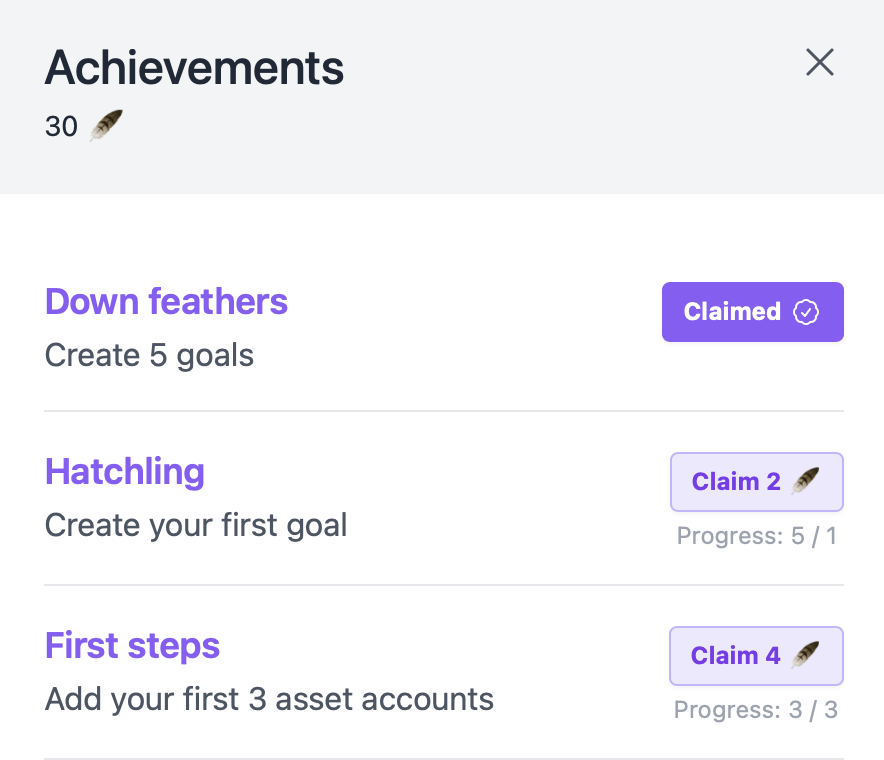
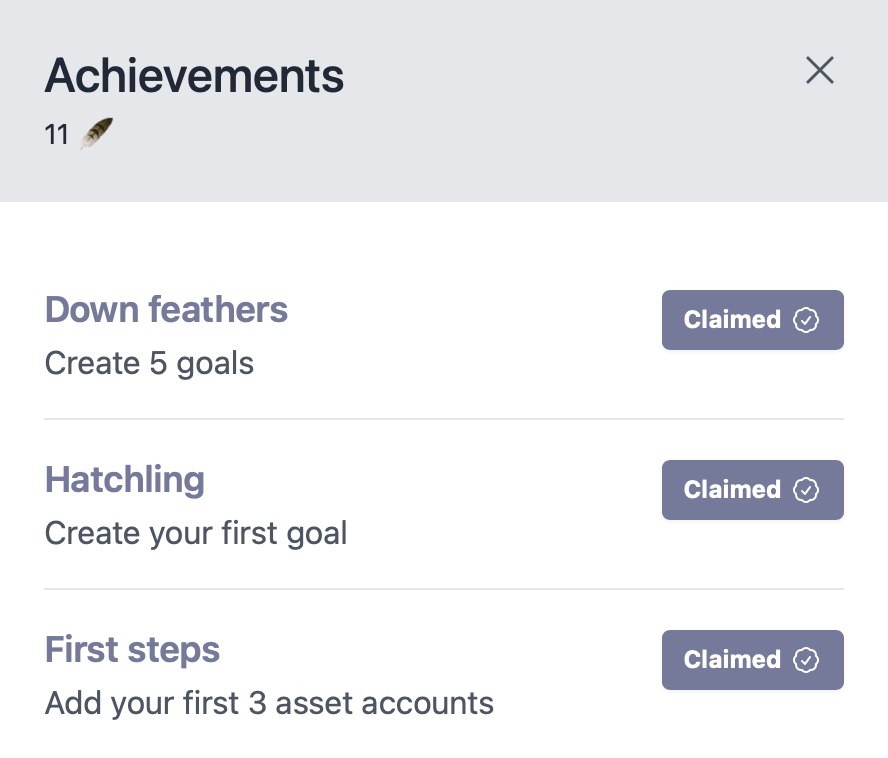
color update

diff --git a/styles/globals.css b/styles/globals.css
@@ -8,20 +8,24 @@
         --color-light: #4b5563;  
         --color-muted: #9ca3af; 
         --color-inverted: #ffffff;
-        --color-assets: #22c55e; 
-        --color-assets-muted: #86efac; 
-        --color-assets-light: #dcfce7;
-        --color-liabilities: #0ea5e9;
-        --color-liabliites-muted: #7dd3fc; 
-        --color-liabilities-light: #e0f2fe;
-        --color-brand: #8b5cf6;
-        --color-brand-hover: #7c3aed; 
-        --color-brand-light: #ede9fe;
-        --color-brand-light-hover: #ddd6fe; 
-        --color-brand-button-border: #c4b5fd; 
+
+        --color-assets: #C9ADA7; 
+        --color-assets-muted: #E0D0CC; 
+        --color-assets-light: #F3EDEC;
+
+        --color-liabilities: #9A8C98;
+        --color-liabliites-muted: #BEB6BD; 
+        --color-liabilities-light: #E9E7E9;
+
+        --color-brand: #747A9D;
+        --color-brand-hover: #686D92; 
+        --color-brand-light: #E3E4EB;
+        --color-brand-light-hover: #D5D7E2; 
+        --color-brand-button-border: #9094B0; 
+        
         --color-secondary-button-border: #d1d5db; 
-        --color-secondary: #f9fafb; 
-        --color-secondary-hover: #f3f4f6;  
+        --color-secondary: #f3f4f6; 
+        --color-secondary-hover: #e5e7eb;  
     }
 
     .theme-nuthatch {

diff --git a/pages/postauth/PostAuthNav.js b/pages/postauth/PostAuthNav.js
@@ -88,7 +88,7 @@ export default function PostAuthNav(props) {
                                     leaveTo="transform opacity-0 scale-95"
                                 >
                                     <Menu.Items className="absolute right-0 z-10 mt-2 w-48 origin-top-right rounded-md bg-white py-1 shadow-lg ring-1 ring-black ring-opacity-5 focus:outline-none">
-                                        <Menu.Item>
+                                        {/* <Menu.Item>
                                             {({ active }) => (
                                             <Link
                                                 href="/profile"
@@ -97,7 +97,7 @@ export default function PostAuthNav(props) {
                                                 Settings
                                             </Link>
                                             )}
-                                        </Menu.Item>
+                                        </Menu.Item> */}
                                         <Menu.Item>
                                             {({ active }) => (
                                             <Link 

diff --git a/pages/charts/AssetsDonut.js b/pages/charts/AssetsDonut.js
@@ -38,21 +38,21 @@ export default function Donut(props) {
                 label: props.label ? props.label : "",
                 data: newArrayData,
                 backgroundColor: [
-                    '#16a34a', //green
-                    '#22c55e',
-                    '#4ade80',
-                    '#86efac',
-                    '#bbf7d0',
-                    '#dcfce7',
+                    '#B0795C', 
+                    '#BB8C72',
+                    '#C69E89',
+                    '#D1B1A0',
+                    '#DCC3B6',
+                    '#E7D6CD',
                     // style.getPropertyValue('--color-assets') 
                 ],
                 borderColor: [
-                    '#16a34a', //green
-                    '#22c55e',
-                    '#4ade80',
-                    '#86efac',
-                    '#bbf7d0',
-                    '#dcfce7',
+                    '#B0795C', 
+                    '#BB8C72',
+                    '#C69E89',
+                    '#D1B1A0',
+                    '#DCC3B6',
+                    '#E7D6CD',
                 ],
                 borderWidth: 1,
             },

diff --git a/pages/charts/LiabilitiesDonut.js b/pages/charts/LiabilitiesDonut.js
@@ -13,20 +13,20 @@ export default function LiabilitiesDonut(props) {
                 label: props.label ? props.label : "",
                 data: props.data ? Object.values(props.data) : [],
                 backgroundColor: [
-                    '#0284c7', //sky
-                    '#0ea5e9',
-                    '#38bdf8',
-                    '#7dd3fc',
-                    '#bae6fd',
-                    '#e0f2fe',
+                    '#9A8C98', 
+                    '#A296A0',
+                    '#A99EA7',
+                    '#B0A6AE',
+                    '#B7AEB6',
+                    '#BEB6BD',
                 ],
                 borderColor: [
-                    '#0284c7', //sky
-                    '#0ea5e9',
-                    '#38bdf8',
-                    '#7dd3fc',
-                    '#bae6fd',
-                    '#e0f2fe',
+                    '#9A8C98', 
+                    '#A296A0',
+                    '#A99EA7',
+                    '#B0A6AE',
+                    '#B7AEB6',
+                    '#BEB6BD',
                 ],
                 borderWidth: 1,
             },

diff --git a/pages/goals/Calendar.js b/pages/goals/Calendar.js
@@ -79,7 +79,7 @@ export default function Calendar(props) {
                     secondLine='Below the calendar, you can quickly navigate to any year with a goal.'
                 />
             </div>
-            <div className='bg-skin-secondary-hover rounded-lg p-2'>
+            <div className='bg-skin-secondary rounded-lg p-2'>
                 <div className="flex items-center text-gray-900">
                     <button
                     type="button"
@@ -110,7 +110,7 @@ export default function Calendar(props) {
                         <div className='flex-col gap-1 items-start'>
                             {months.map((month) => (
                                 <div key={month.id} className='flex mb-1 gap-2'>
-                                    <CheckCircleIcon className='h-5 text-skin-secondary-hover' />
+                                    <CheckCircleIcon className='h-5 text-skin-secondary' />
                                     {props.goals
                                         .filter(filterGoals(month.id))
                                         .map((goal) => (

diff --git a/pages/profile.js b/pages/profile.js
@@ -6,6 +6,7 @@ import { useSupabaseClient } from "@supabase/auth-helpers-react";
 import { useEffect } from "react";
 import Link from "next/link";
 
+
 export default function Profile() {
     const user = useUser() 
     const supabase = useSupabaseClient() 
@@ -34,7 +35,7 @@ export default function Profile() {
 
             <div className="relative py-10 min-h-screen">
                 <main>
-                    <div className="mx-auto max-w-3xl sm:px-6 lg:px-8 mt-20">
+                    <div className="mx-auto max-w-3xl px-4 sm:px-6 lg:px-8 mt-20">
                         <div className='bg-skin-secondary-hover rounded-lg p-5'>
                             <h3 className="text-lg font-medium leading-6 text-skin-base">Settings</h3>
                             <div className="mt-5 border-t border-skin-secondary-button-border">

diff --git a/pages/reset-password.js b/pages/reset-password.js
@@ -18,16 +18,15 @@ export default function ResetPassword() {
 
     useEffect(() => {
         supabase.auth.onAuthStateChange(async (event, session) => {
-            if (event == "PASSWORD_RECOVERY" || event == 'SIGNED_IN') {
+            if (event == "PASSWORD_RECOVERY") {
                 setEnabled(true)
             } 
         })
+        
+        if (user) {
+            setEnabled(true)
+        }
     }, [])
-
-    const resetPassword = async () => {
-        const { data, error } = await supabase.auth
-            .resetPasswordForEmail('user@email.com')
-    }
 
     return (
         <>

diff --git a/pages/index.js b/pages/index.js
@@ -83,8 +83,8 @@ export default function Index() {
 										y2="474.645"
 										gradientUnits="userSpaceOnUse"
 										>
-										<stop stopColor="#8b5cf6" />
-										<stop offset={1} stopColor="#c4b5fd" />
+										<stop stopColor="#747A9D" />
+										<stop offset={1} stopColor="#9094B0" />
 										</linearGradient>
 									</defs>
 									</svg>
